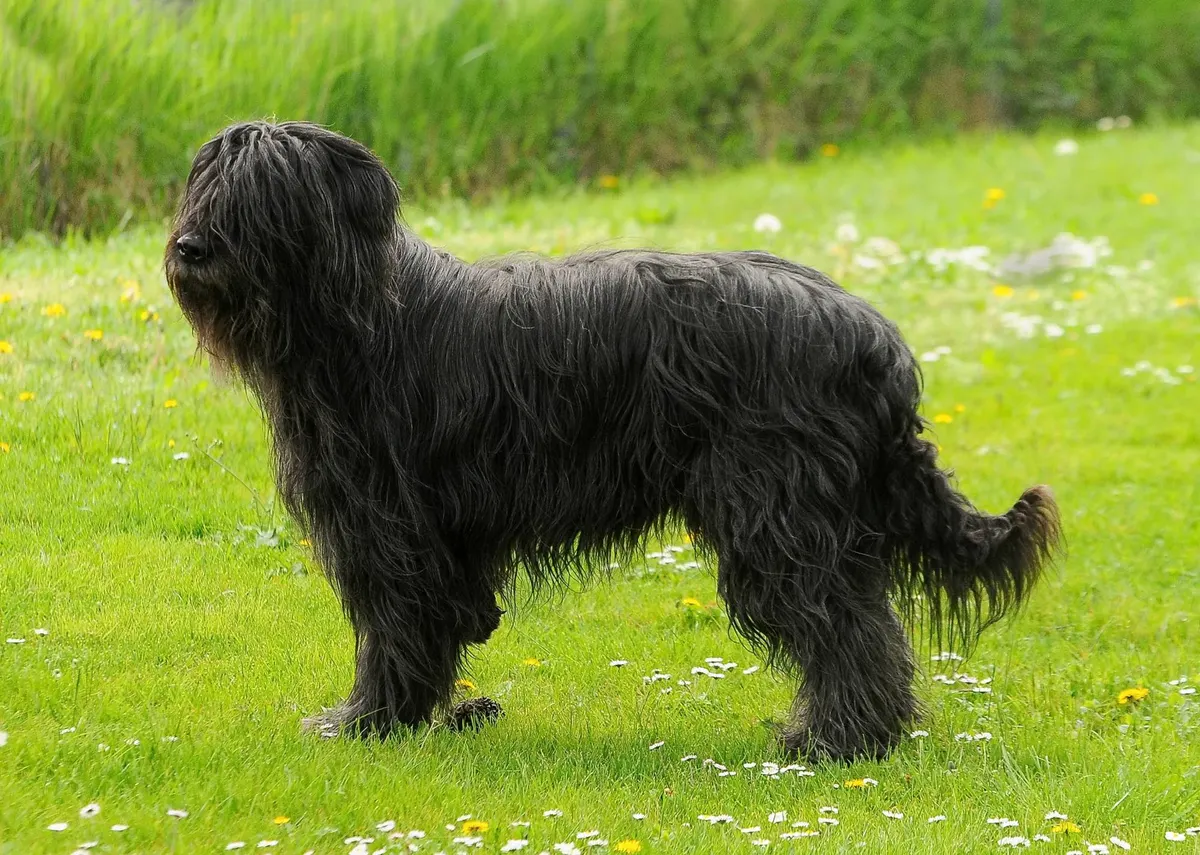
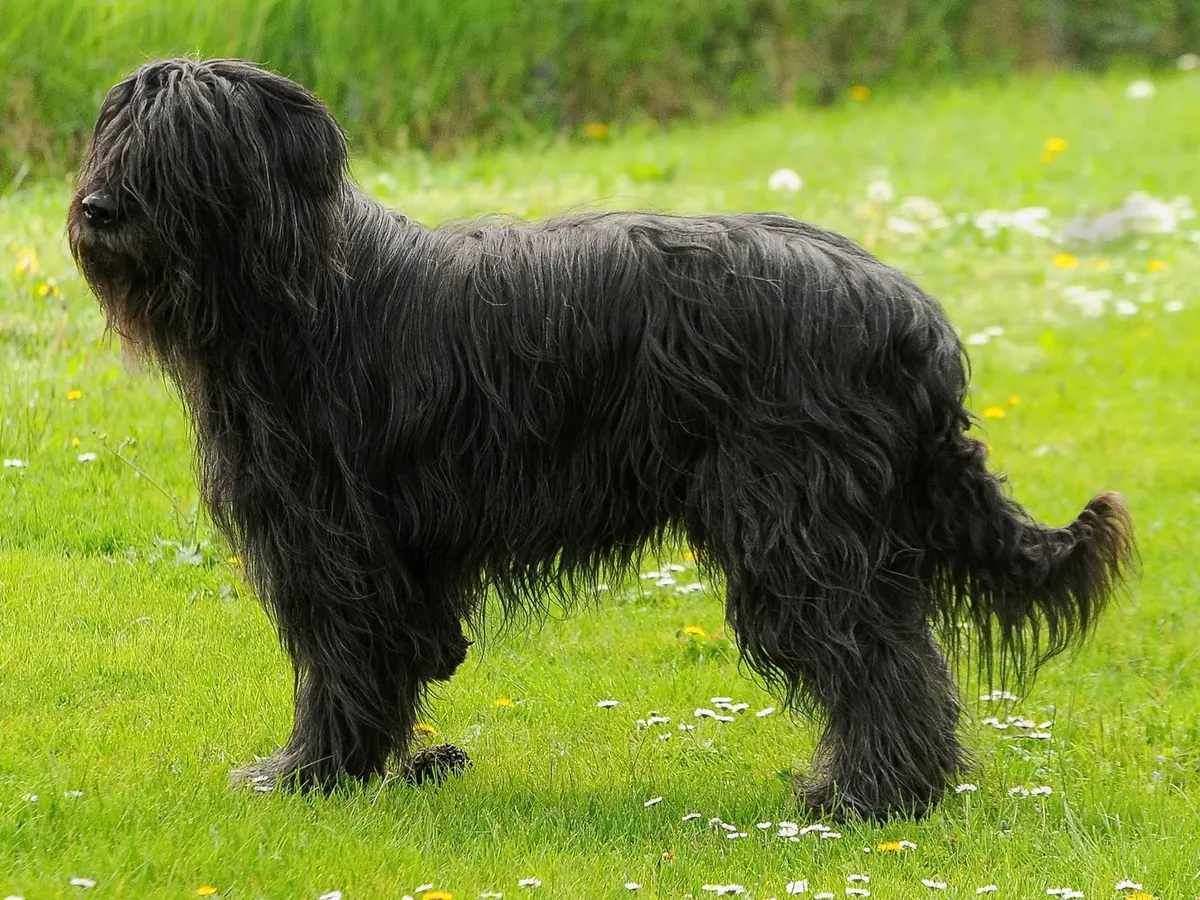
Fotos de muestra de IA Scan en 4:3, recortadas con el perro entero
- Las tres fotos de muestra se recortan en 4:3 centradas en cada perro (1200 x 900).
- Inicio, ejemplos de IA Scan y visor usan la misma proporción 4:3: antes el inicio
  las cortaba en vertical (3:4) y el Pastor de Brie perdía casi todo el cuerpo.

diff --git a/src/components/cliente/escaneo/IaScanCare.tsx b/src/components/cliente/escaneo/IaScanCare.tsx
@@ -185,7 +185,7 @@ export function IaScanCare({
             }
           />
         ) : (
-          <div className="grid aspect-square place-items-center rounded-md border border-dashed border-linea bg-superficie p-6 text-center">
+          <div className="grid aspect-[4/3] place-items-center rounded-md border border-dashed border-linea bg-superficie p-6 text-center">
             <span className="flex flex-col items-center gap-3 text-texto-suave">
               <Melli pose="foto" size={120} />
               Elegí una foto de abajo o subí la de tu perro.
@@ -256,7 +256,7 @@ export function IaScanCare({
                     src={rutaPublica(e.foto)}
                     alt=""
                     loading="lazy"
-                    className="aspect-square w-full object-cover"
+                    className="aspect-[4/3] w-full object-cover"
                   />
                   <span className="flex flex-col px-2 py-1.5">
                     <span className="text-sm font-bold">{e.nombre}</span>

diff --git a/src/components/cliente/escaneo/VisorEscaneo.tsx b/src/components/cliente/escaneo/VisorEscaneo.tsx
@@ -28,7 +28,7 @@ export function VisorEscaneo({ src, alt, paso, rotulo }: Props) {
       <div className="relative overflow-hidden rounded-md border border-linea bg-verde shadow-ticket">
         {/* Foto local (public/fotos) o elegida por el usuario (blob:): no pasa por next/image */}
         {/* eslint-disable-next-line @next/next/no-img-element */}
-        <img src={src} alt={alt} className="aspect-square w-full object-cover" />
+        <img src={src} alt={alt} className="aspect-[4/3] w-full object-cover" />
         {escaneando && (
           <div aria-hidden="true" className="absolute inset-0 bg-blanco/40">
             <Melli pose="foto" size={72} className="mascota-espera absolute bottom-3 right-3" />

diff --git a/src/components/cliente/InicioVista.tsx b/src/components/cliente/InicioVista.tsx
@@ -93,7 +93,7 @@ export function InicioVista({ servicios, direccion, horarios, whatsapp }: Props)
                 src={rutaPublica(e.foto)}
                 alt={e.alt}
                 loading="lazy"
-                className="aspect-[3/4] w-full rounded-md border border-blanco object-cover"
+                className="aspect-[4/3] w-full rounded-md border border-blanco object-cover"
               />
               <span className="text-xs font-bold">{e.nombre}</span>
             </li>
